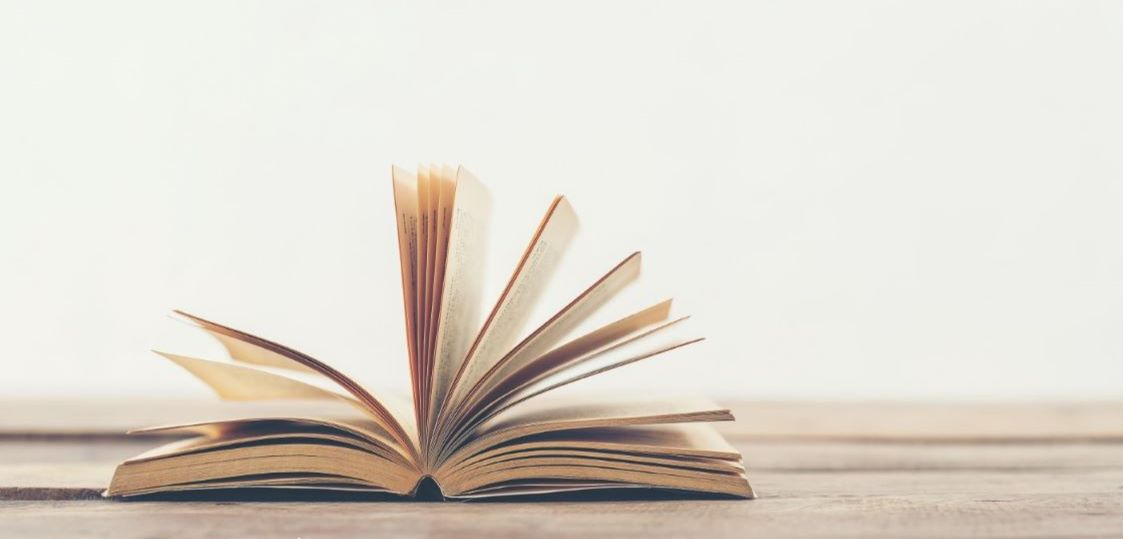
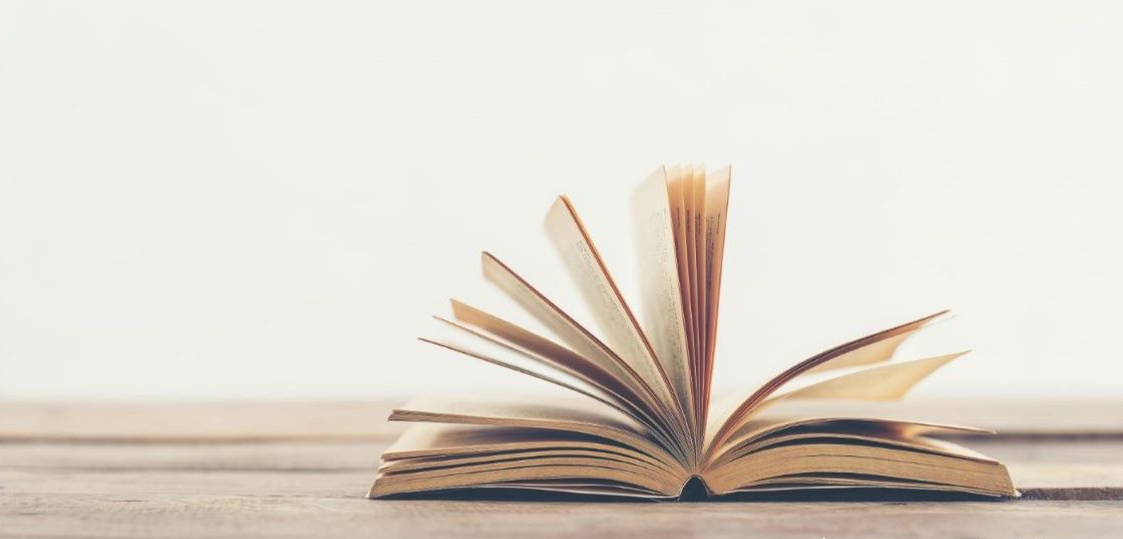
Add files via upload

Changed region(s): [[0.0, 0.2968, 1.0, 1.0], [0.561, 0.9796, 0.6233, 1.0], [0.374, 0.9796, 0.4363, 1.0]]

diff --git a/habits.html b/habits.html
@@ -29,15 +29,10 @@
     </div>
   </nav>
 
-    <!-- <section id="habits" class="section-pad">
-        <div class="container-fluid content-width">
-            <div class="wide-hero hero-habits">
-                <div class="hero-card"><h1>Habits and Tips</h1></div></div> -->
-
-    <section class="section-pad about-section">
+    <section class="section-pad about-section" id="habits">
       <div class="container-fluid content-width">
         <div class="split-hero">
-          <div><h1 id="habits">Habits and Tips</h1></div>
+          <div><h1>Habits and Tips</h1></div>
             <img src="assets/img-1.jpg" alt="Laundry">
         </div>
       </div>
@@ -90,19 +85,23 @@
 
   <footer class="site-footer">
       <div class="container-fluid content-width"><div class="row g-5">
-        <div class="col-md-3"><h3>HOME</h3>
+        <div class="col-md-3">
+          <a href="index.html#home"><h3>HOME</h3></a>
           <a href="index.html#textile-waste">Textile Waste</a>
           <a href="index.html#types-of-textile-waste">Types of Textile Waste</a>
           <a href="index.html#habits">Habits & Tips</a>
           <a href="index.html#donate">Donate Clothes</a></div>
-        <div class="col-md-3"><h3>About</h3>
+        <div class="col-md-3">
+          <a href="about.html#about"><h3>About</h3></a>
           <a href="about.html#textile-waste">Textile Waste</a>
           <a href="about.html#types-of-textile-waste">Types of Textile Waste</a>
           <a href="about.html#why-it-matters">Why It Matters</a></div>
-        <div class="col-md-3"><h3>Habit & Tips</h3>
+        <div class="col-md-3">
+          <a href="habits.html#habits"><h3>Habits & Tips</h3></a>
           <a href="habits.html#simple">5 Simple Habits</a>
           <a href="habits.html#tips">Tips in Textile Waste Reduction</a></div>
-        <div class="col-md-3"><h3>Contact & Visit</h3>
+        <div class="col-md-3">
+          <a href="contact.html#contact"><h3>Contact & Visit</h3></a>
           <a href="contact.html#suggest">Suggested Contacts & Visits</a>
           <a href="contact.html#suggest">Geocycle Philippines</a>
           <a href="contact.html#suggest">Rags2Riches Inc.</a>

diff --git a/contact.html b/contact.html
@@ -34,8 +34,8 @@
         <div class="split-hero contact-hero"><div>
         <h1 id="contact">Contact<br>and Visit</h1></div>
         <img src="assets/img-042.png" alt="Rolled textile fabrics"></div>
-<p id="suggest"></p><br>
-        <h2 class="mt-5">Suggested Contacts for Textile Waste Organizations</h2>
+<br>
+        <h2 class="mt-5" id="suggest">Suggested Contacts for Textile Waste Organizations</h2>
         <div class="contact-list">
         <article><h3>Geocycle Philippines <span>(Co-processing and industrial waste management)</span></h3>
         <p>Telephone: +63 2 8581 1551 &nbsp; | &nbsp; Email: info-phl@geocycle.com</p></article>
@@ -48,19 +48,23 @@
 
   <footer class="site-footer">
       <div class="container-fluid content-width"><div class="row g-5">
-        <div class="col-md-3"><h3>HOME</h3>
+        <div class="col-md-3">
+          <a href="index.html#home"><h3>HOME</h3></a>
           <a href="index.html#textile-waste">Textile Waste</a>
           <a href="index.html#types-of-textile-waste">Types of Textile Waste</a>
           <a href="index.html#habits">Habits & Tips</a>
           <a href="index.html#donate">Donate Clothes</a></div>
-        <div class="col-md-3"><h3>About</h3>
+        <div class="col-md-3">
+          <a href="about.html#about"><h3>About</h3></a>
           <a href="about.html#textile-waste">Textile Waste</a>
           <a href="about.html#types-of-textile-waste">Types of Textile Waste</a>
           <a href="about.html#why-it-matters">Why It Matters</a></div>
-        <div class="col-md-3"><h3>Habit & Tips</h3>
+        <div class="col-md-3">
+          <a href="habits.html#habits"><h3>Habits & Tips</h3></a>
           <a href="habits.html#simple">5 Simple Habits</a>
           <a href="habits.html#tips">Tips in Textile Waste Reduction</a></div>
-        <div class="col-md-3"><h3>Contact & Visit</h3>
+        <div class="col-md-3">
+          <a href="contact.html#contact"><h3>Contact & Visit</h3></a>
           <a href="contact.html#suggest">Suggested Contacts & Visits</a>
           <a href="contact.html#suggest">Geocycle Philippines</a>
           <a href="contact.html#suggest">Rags2Riches Inc.</a>

diff --git a/glossary.html b/glossary.html
@@ -164,23 +164,27 @@ knitting, and other textile-making techniques.</dd></div>
 
   <footer class="site-footer">
       <div class="container-fluid content-width"><div class="row g-5">
-        <div class="col-md-3"><h3>HOME</h3>
+        <div class="col-md-3">
+          <a href="index.html#home"><h3>HOME</h3></a>
           <a href="index.html#textile-waste">Textile Waste</a>
           <a href="index.html#types-of-textile-waste">Types of Textile Waste</a>
           <a href="index.html#habits">Habits & Tips</a>
           <a href="index.html#donate">Donate Clothes</a></div>
-        <div class="col-md-3"><h3>About</h3>
+        <div class="col-md-3">
+          <a href="about.html#about"><h3>About</h3></a>
           <a href="about.html#textile-waste">Textile Waste</a>
           <a href="about.html#types-of-textile-waste">Types of Textile Waste</a>
           <a href="about.html#why-it-matters">Why It Matters</a></div>
-        <div class="col-md-3"><h3>Habit & Tips</h3>
+        <div class="col-md-3">
+          <a href="habits.html#habits"><h3>Habits & Tips</h3></a>
           <a href="habits.html#simple">5 Simple Habits</a>
           <a href="habits.html#tips">Tips in Textile Waste Reduction</a></div>
-        <div class="col-md-3"><h3>Contact & Visit</h3>
+        <div class="col-md-3">
+          <a href="contact.html#contact"><h3>Contact & Visit</h3></a>
           <a href="contact.html#suggest">Suggested Contacts & Visits</a>
-          <a href="contact.html#GPh">Geocycle Philippines</a>
-          <a href="contact.html#R2R">Rags2Riches Inc.</a>
-          <a href="contact.html#MMT">Mapol Merch & Trading</a></div>
+          <a href="contact.html#suggest">Geocycle Philippines</a>
+          <a href="contact.html#suggest">Rags2Riches Inc.</a>
+          <a href="contact.html#suggest">Mapol Merch & Trading</a></div>
       </div>
     </div>
   </footer>

diff --git a/about.html b/about.html
@@ -81,23 +81,27 @@
 
   <footer class="site-footer">
       <div class="container-fluid content-width"><div class="row g-5">
-        <div class="col-md-3"><h3>HOME</h3>
+        <div class="col-md-3">
+          <a href="index.html#home"><h3>HOME</h3></a>
           <a href="index.html#textile-waste">Textile Waste</a>
           <a href="index.html#types-of-textile-waste">Types of Textile Waste</a>
           <a href="index.html#habits">Habits & Tips</a>
           <a href="index.html#donate">Donate Clothes</a></div>
-        <div class="col-md-3"><h3>About</h3>
+        <div class="col-md-3">
+          <a href="about.html#about"><h3>About</h3></a>
           <a href="about.html#textile-waste">Textile Waste</a>
           <a href="about.html#types-of-textile-waste">Types of Textile Waste</a>
           <a href="about.html#why-it-matters">Why It Matters</a></div>
-        <div class="col-md-3"><h3>Habit & Tips</h3>
+        <div class="col-md-3">
+          <a href="habits.html#habits"><h3>Habits & Tips</h3></a>
           <a href="habits.html#simple">5 Simple Habits</a>
           <a href="habits.html#tips">Tips in Textile Waste Reduction</a></div>
-        <div class="col-md-3"><h3>Contact & Visit</h3>
+        <div class="col-md-3">
+          <a href="contact.html#contact"><h3>Contact & Visit</h3></a>
           <a href="contact.html#suggest">Suggested Contacts & Visits</a>
-          <a href="contact.html#GPh">Geocycle Philippines</a>
-          <a href="contact.html#R2R">Rags2Riches Inc.</a>
-          <a href="contact.html#MMT">Mapol Merch & Trading</a></div>
+          <a href="contact.html#suggest">Geocycle Philippines</a>
+          <a href="contact.html#suggest">Rags2Riches Inc.</a>
+          <a href="contact.html#suggest">Mapol Merch & Trading</a></div>
       </div>
     </div>
   </footer>

diff --git a/index.html b/index.html
@@ -64,19 +64,23 @@
 
     <footer class="site-footer">
       <div class="container-fluid content-width"><div class="row g-5">
-        <div class="col-md-3"><h3>HOME</h3>
+        <div class="col-md-3">
+          <a href="index.html#home"><h3>HOME</h3></a>
           <a href="index.html#textile-waste">Textile Waste</a>
           <a href="index.html#types-of-textile-waste">Types of Textile Waste</a>
           <a href="index.html#habits">Habits & Tips</a>
           <a href="index.html#donate">Donate Clothes</a></div>
-        <div class="col-md-3"><h3>About</h3>
+        <div class="col-md-3">
+          <a href="about.html#about"><h3>About</h3></a>
           <a href="about.html#textile-waste">Textile Waste</a>
           <a href="about.html#types-of-textile-waste">Types of Textile Waste</a>
           <a href="about.html#why-it-matters">Why It Matters</a></div>
-        <div class="col-md-3"><h3>Habit & Tips</h3>
+        <div class="col-md-3">
+          <a href="habits.html#habits"><h3>Habits & Tips</h3></a>
           <a href="habits.html#simple">5 Simple Habits</a>
           <a href="habits.html#tips">Tips in Textile Waste Reduction</a></div>
-        <div class="col-md-3"><h3>Contact & Visit</h3>
+        <div class="col-md-3">
+          <a href="contact.html#contact"><h3>Contact & Visit</h3></a>
           <a href="contact.html#suggest">Suggested Contacts & Visits</a>
           <a href="contact.html#suggest">Geocycle Philippines</a>
           <a href="contact.html#suggest">Rags2Riches Inc.</a>
